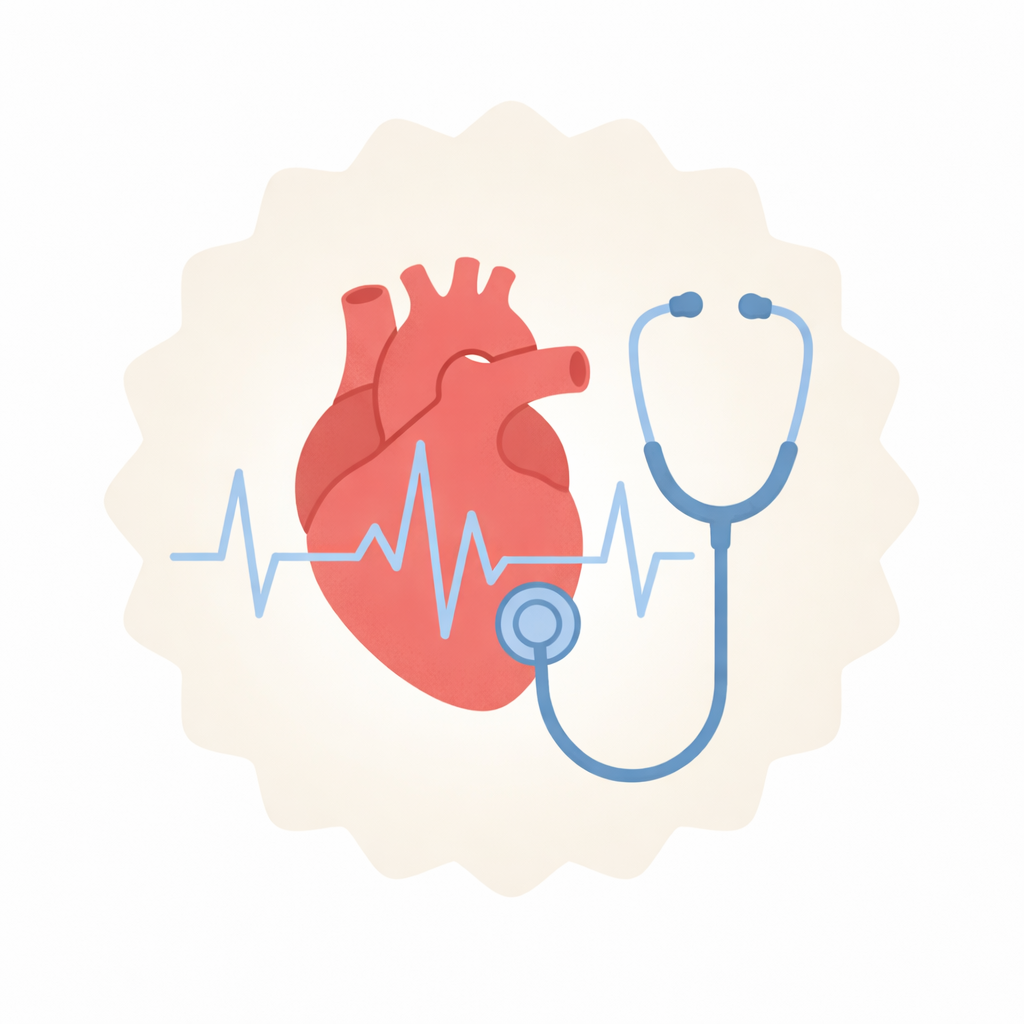
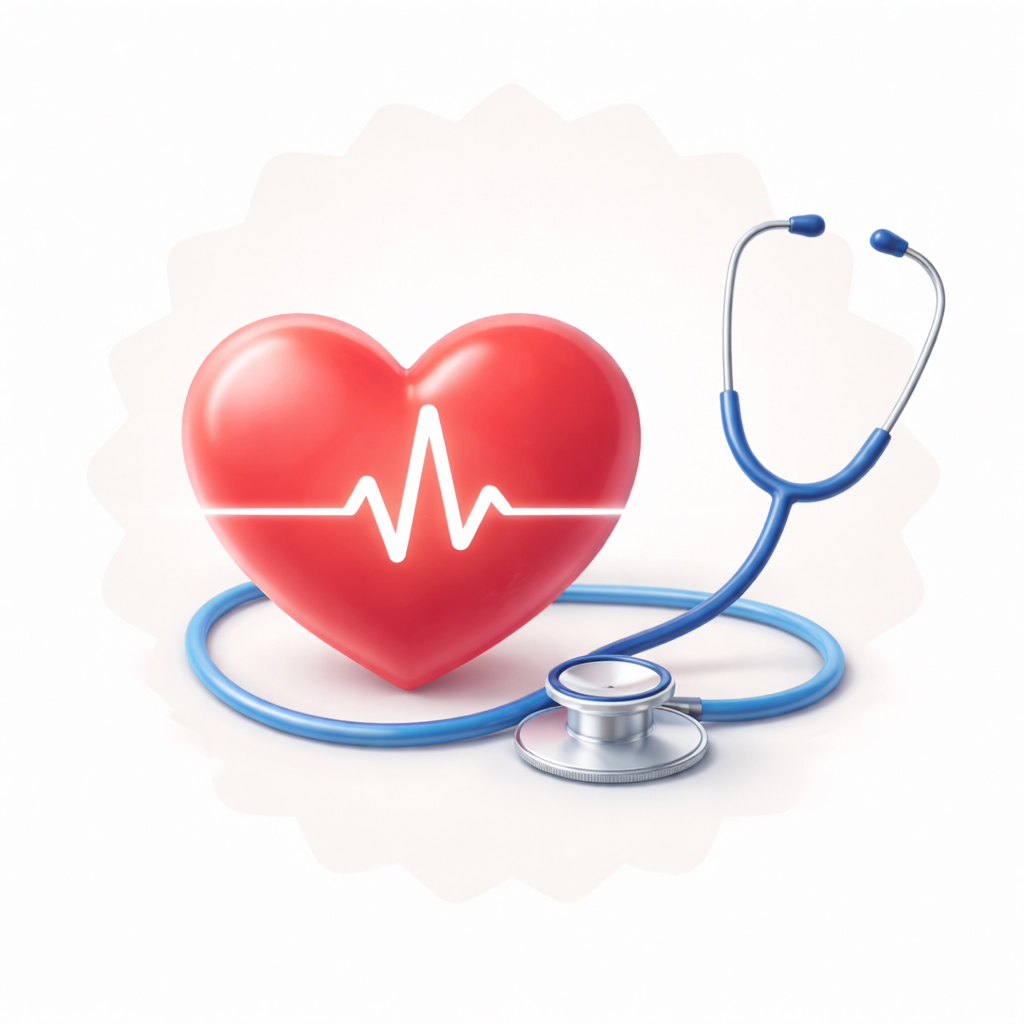
Category Image Update v2

diff --git a/public/index.html b/public/index.html
@@ -532,7 +532,7 @@
 
         <a href="categories.html?catogeries_ID=4" class="category-card">
           <div class="category-icon">
-            <img src="./assets/image2/cardiacCare2.png" alt="">
+            <img src="./assets/image2/cardiacCare.png" alt="">
             <!-- <svg fill="none" stroke="currentColor" viewBox="0 0 24 24">
               <path
                 stroke-linecap="round"
